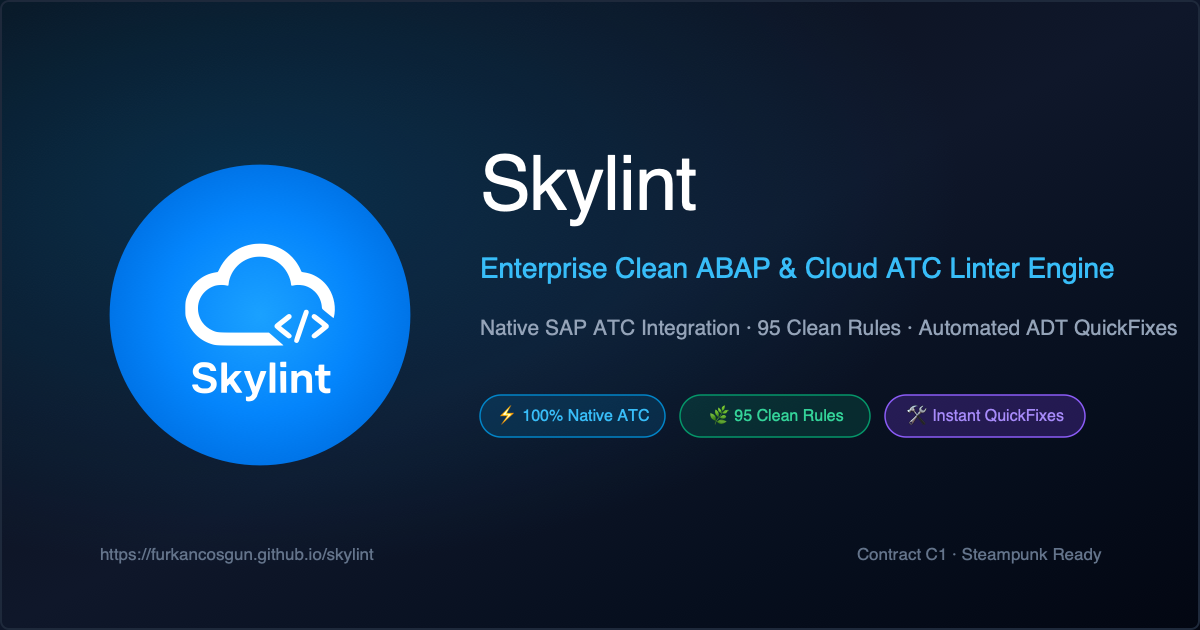
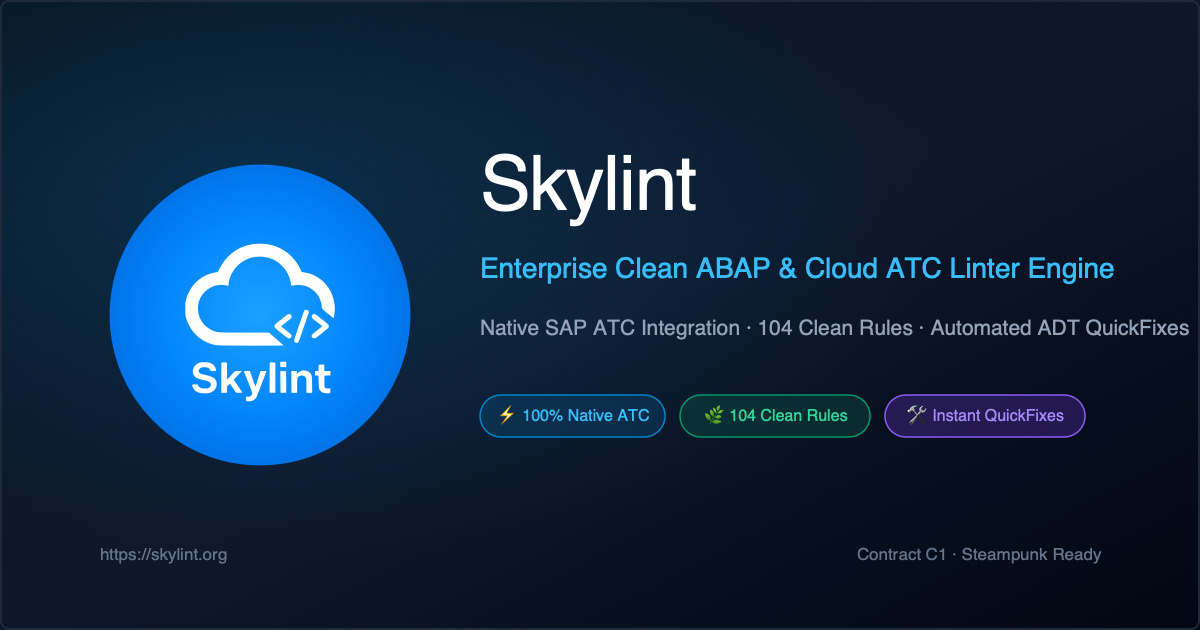
docs: migrate site to skylint.org custom domain

Changed region(s): [[0.6167, 0.4825, 1.0, 0.5429], [0.5858, 0.6333, 0.7092, 0.6937], [0.1233, 0.8746, 0.3083, 0.9048]]

diff --git a/README.md b/README.md
@@ -10,13 +10,13 @@
 
 <p align="center">
   <a href="https://github.com/furkancosgun/skylint/actions/workflows/ci.yml"><img src="https://github.com/furkancosgun/skylint/actions/workflows/ci.yml/badge.svg" alt="CI" /></a>
-  <a href="https://furkancosgun.github.io/skylint/"><img src="https://img.shields.io/badge/docs-online-blue.svg" alt="Docs" /></a>
-  <a href="https://furkancosgun.github.io/skylint/rules/"><img src="https://img.shields.io/badge/rules-100%2B-brightgreen.svg" alt="Rules" /></a>
+  <a href="https://skylint.org/"><img src="https://img.shields.io/badge/docs-online-blue.svg" alt="Docs" /></a>
+  <a href="https://skylint.org/rules/"><img src="https://img.shields.io/badge/rules-100%2B-brightgreen.svg" alt="Rules" /></a>
   <img src="https://img.shields.io/badge/target-ABAP%20Cloud-informational.svg" alt="ABAP Cloud" />
   <a href="LICENSE"><img src="https://img.shields.io/badge/license-MIT-yellow.svg" alt="License" /></a>
 </p>
 
-> 📖 **Full Documentation & Interactive Rule Catalog:** [https://furkancosgun.github.io/skylint/](https://furkancosgun.github.io/skylint/)
+> 📖 **Full Documentation & Interactive Rule Catalog:** [https://skylint.org/](https://skylint.org/)
 
 ---
 
@@ -79,7 +79,7 @@ Skylint enforces 100+ Clean ABAP, security, and cloud-native rules across 5 core
 
 Explore the complete interactive catalog with detailed rationales, configuration attributes, and before/after code examples:
 
-👉 **[Browse Full Interactive Rule Catalog (https://furkancosgun.github.io/skylint/rules/)](https://furkancosgun.github.io/skylint/rules/)**
+👉 **[Browse Full Interactive Rule Catalog (https://skylint.org/rules/)](https://skylint.org/rules/)**
 
 ### Rule Categories
 
